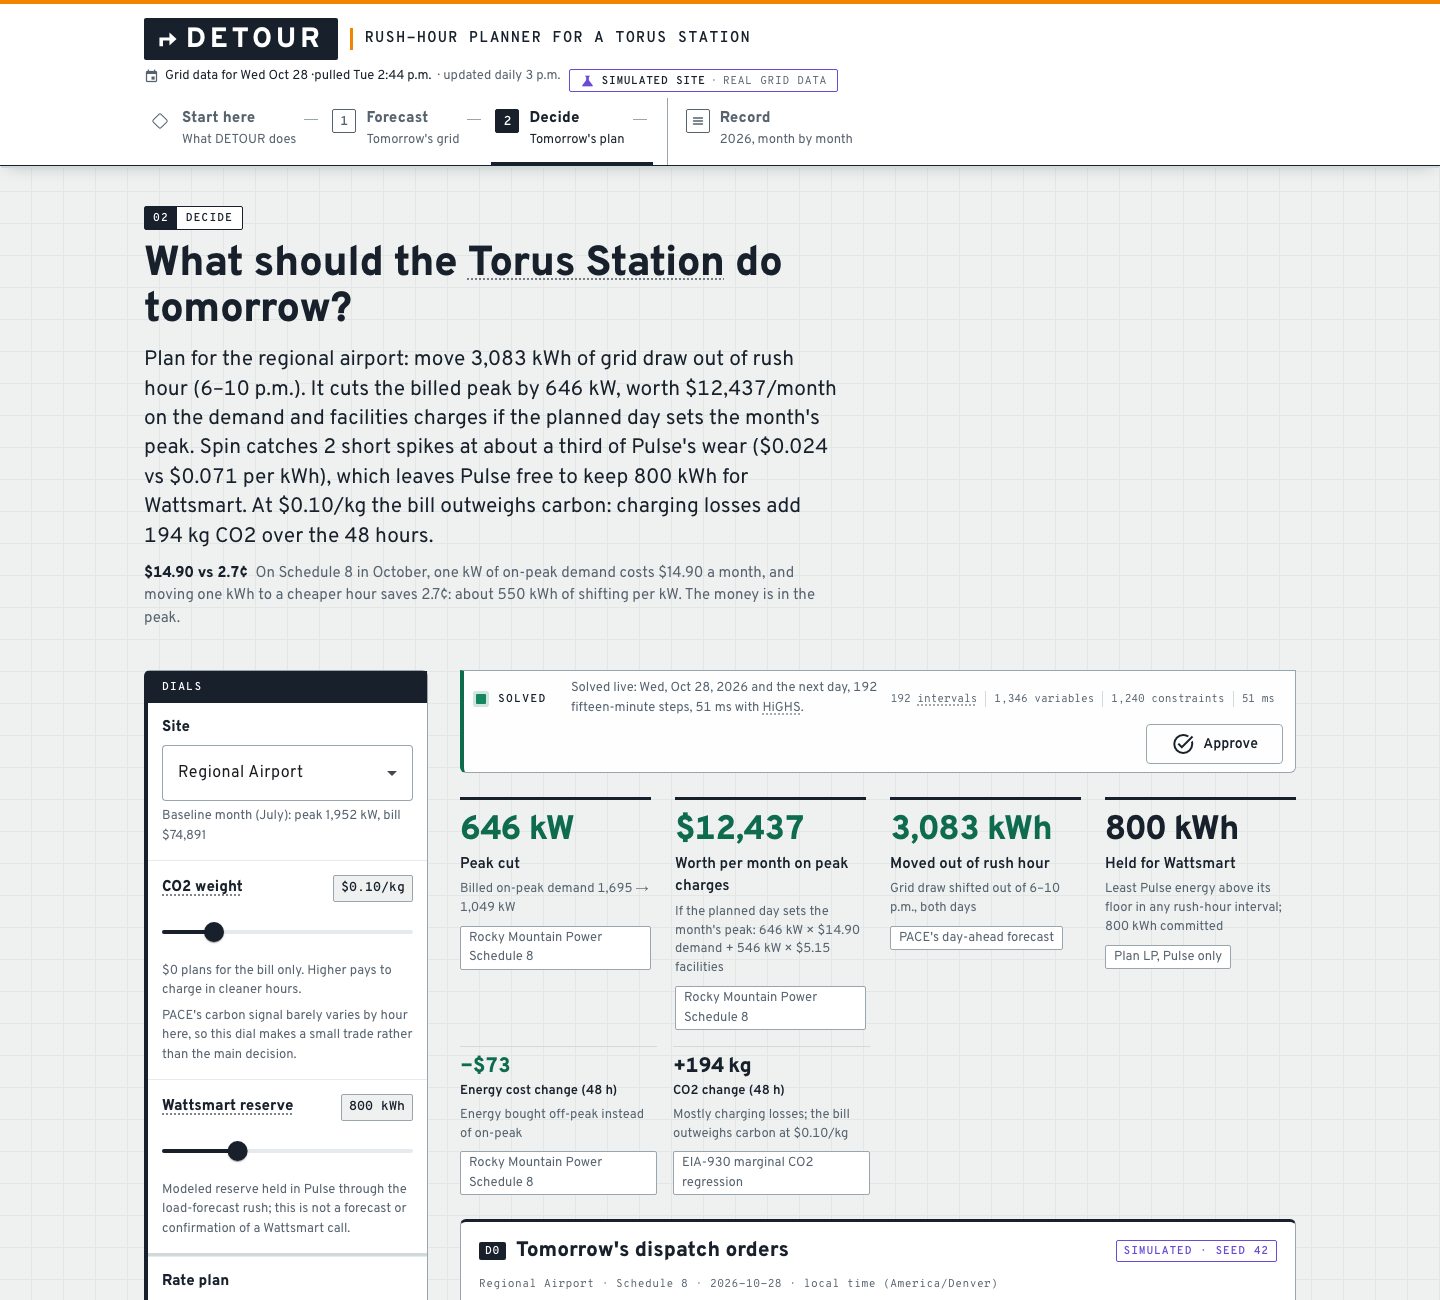
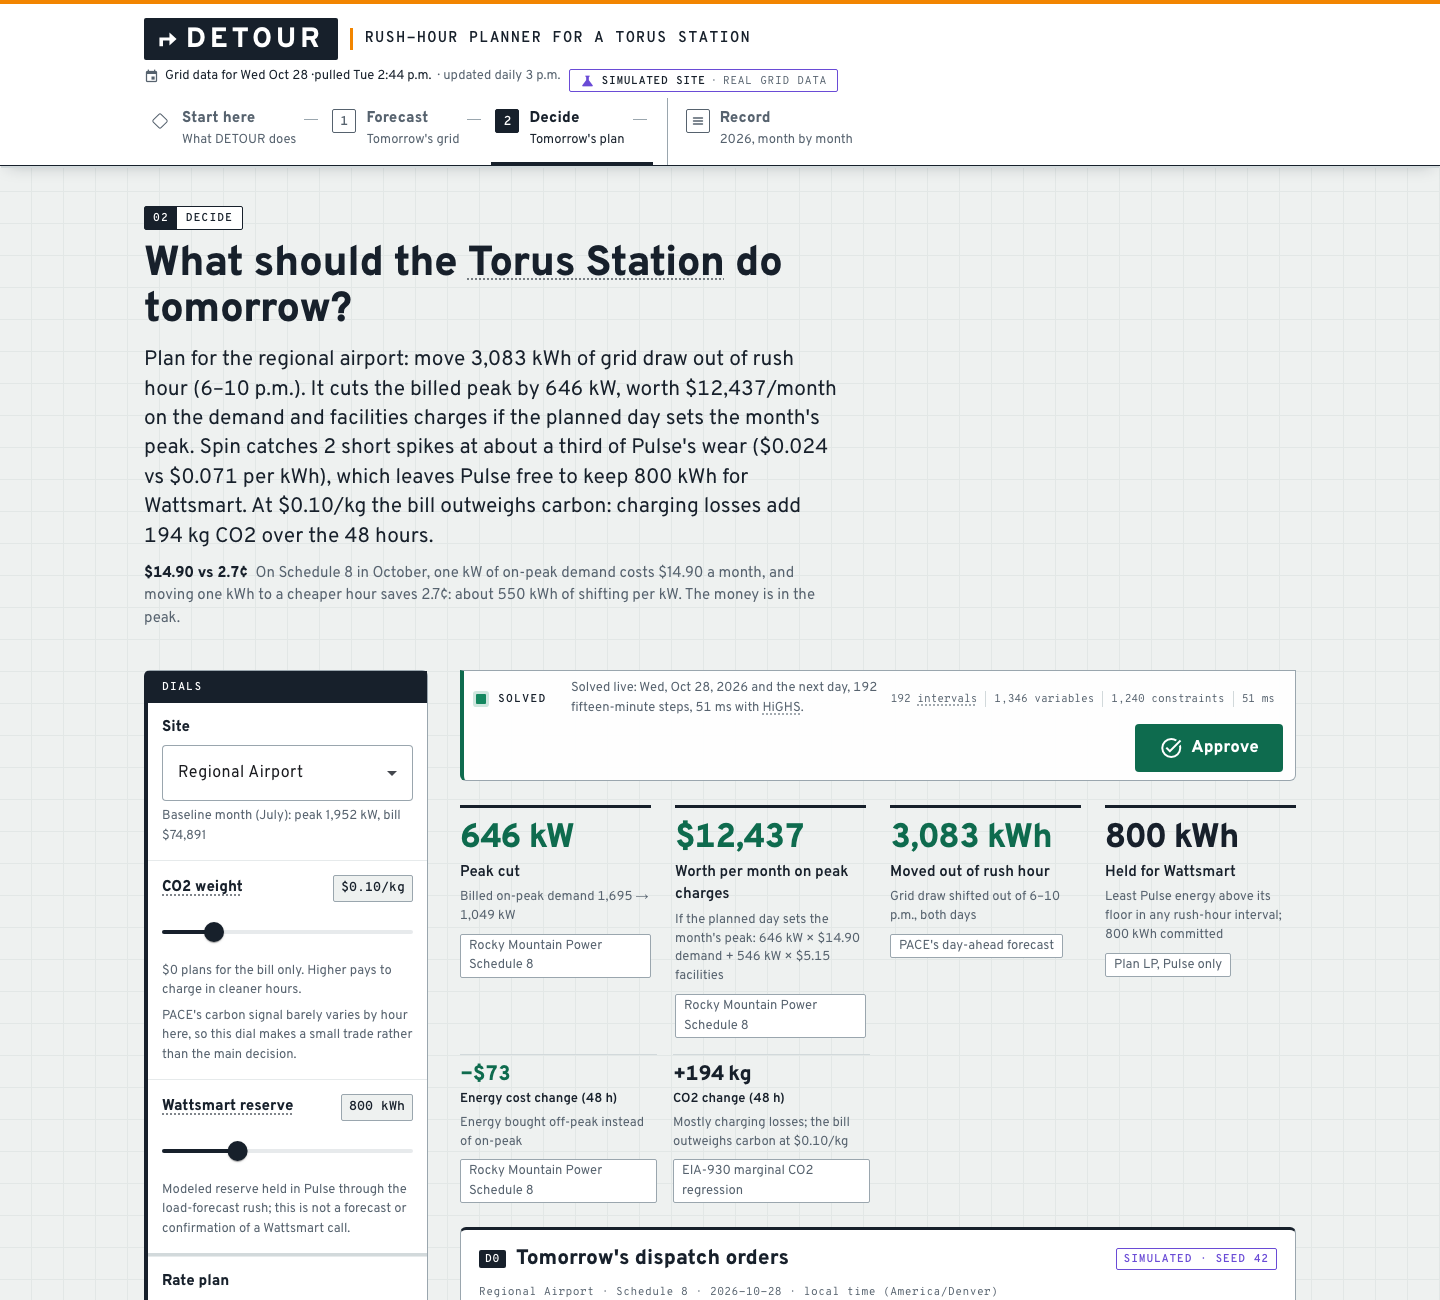
style: make the solver rail Approve a solid green button

Changed region(s): [[0.3125, 0.5846, 0.9062, 1.0], [0.625, 0.5538, 0.9062, 0.7692], [0.3125, 0.5846, 0.4375, 0.7692]]

diff --git a/app/src/app/plan/plan.component.html b/app/src/app/plan/plan.component.html
@@ -200,7 +200,7 @@
                   </span>
                 }
                 @if (sheet && !isApproved(sheet)) {
-                  <button mat-stroked-button type="button" class="plan__rail-approve" [disabled]="!canApprove(solve, sheet)" (click)="onApprove(sheet)">
+                  <button mat-flat-button type="button" class="plan__rail-approve" [disabled]="!canApprove(solve, sheet)" (click)="onApprove(sheet)">
                     <div class="btn-content">
                       <mat-icon aria-hidden="true">task_alt</mat-icon>
                       <span>Approve</span>

diff --git a/app/src/app/plan/plan.component.scss b/app/src/app/plan/plan.component.scss
@@ -677,7 +677,14 @@
 }
 
 .plan__rail-approve {
+  --mat-button-filled-container-color: var(--dt-clear);
+  --mat-button-filled-label-text-color: var(--dt-panel);
+  --mat-button-filled-container-height: 48px;
+  min-height: 48px;
   margin-left: auto;
+  padding: 0 24px;
+  font-size: var(--dt-text-17);
+  font-weight: 800;
 }
 
 @media (max-width: 599.98px) {
